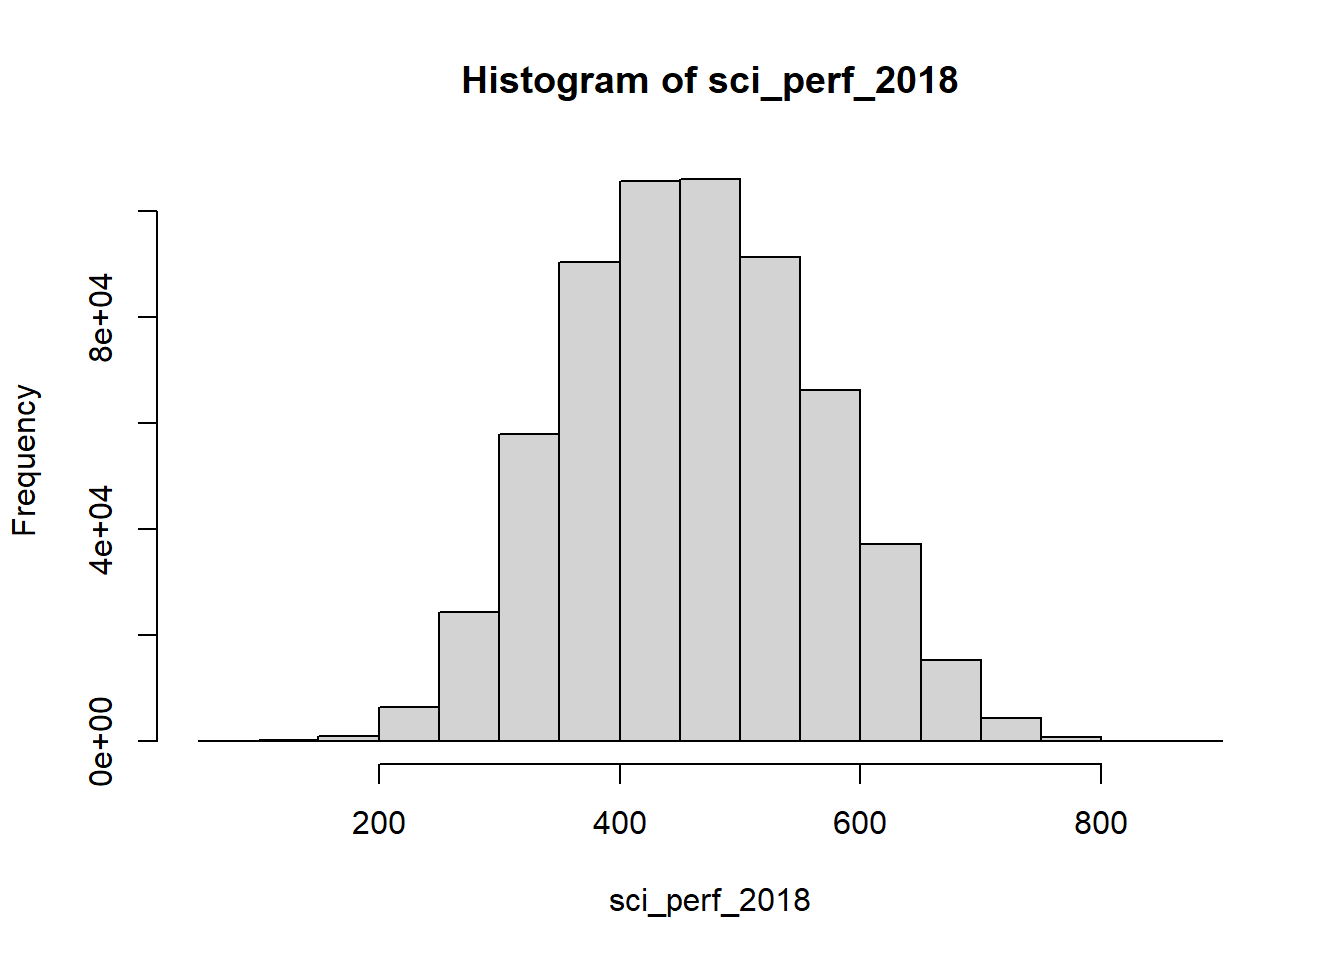
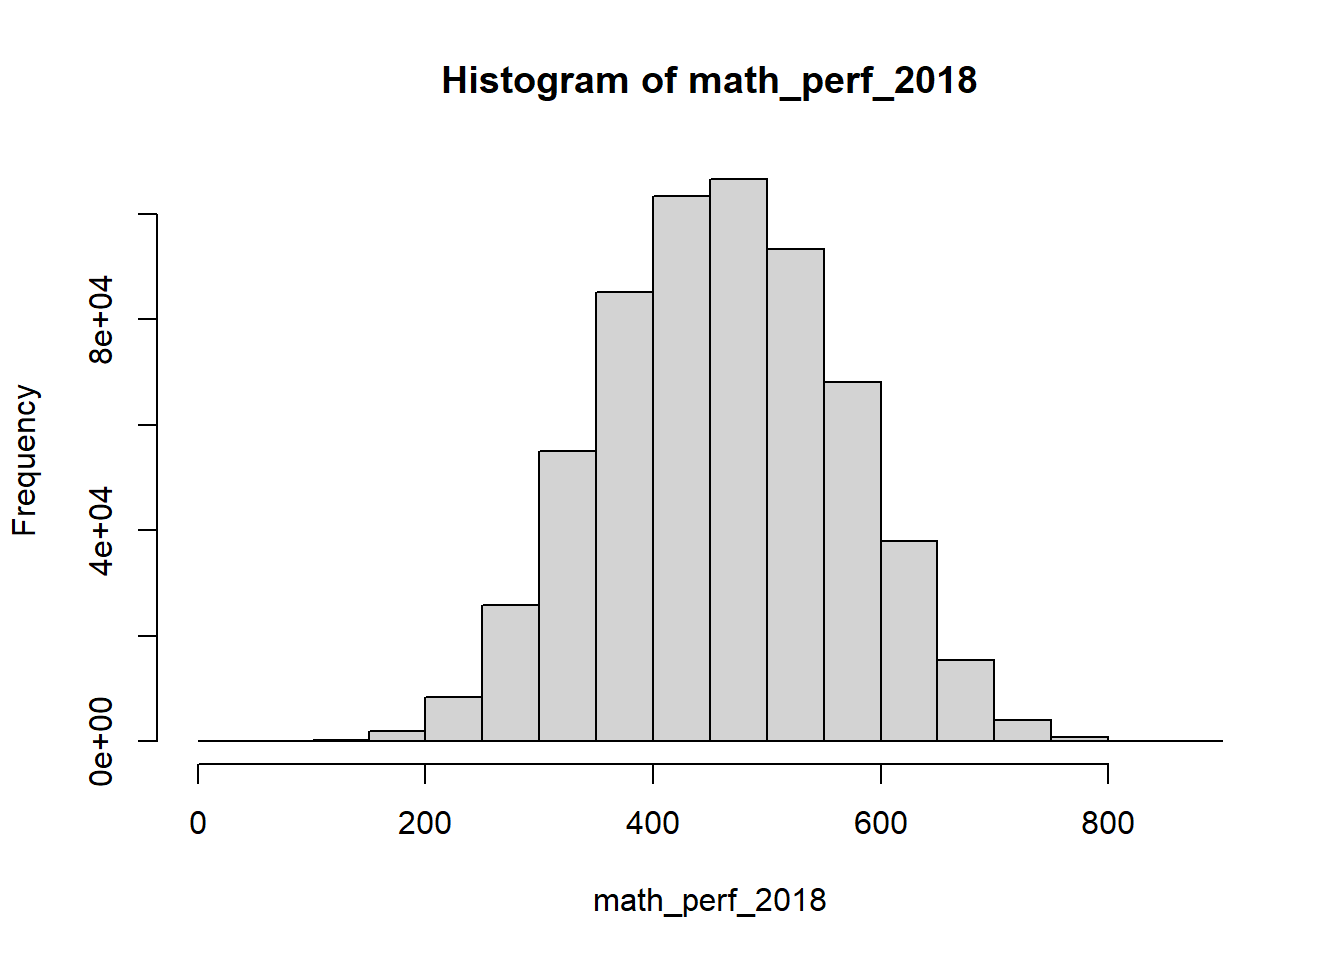
fixed some stuff b4 going to sleep

diff --git a/process.html b/process.html
@@ -351,17 +351,33 @@ dim(stud_perf_2018)</code></pre>
 <div id="visual-exploratory-analysis" class="section level1">
 <h1>Visual Exploratory Analysis</h1>
 <hr />
+<div id="grabbing-math-and-science-scores-and-assigning-them-in-variables-math_perf_2018-and-sci_perf_2018" class="section level3">
+<h3>Grabbing math and science scores and assigning them in variables math_perf_2018 and sci_perf_2018</h3>
+<pre class="r"><code>math_perf_2018 &lt;- stud_perf_2018$math
+sci_perf_2018 &lt;- stud_perf_2018$science</code></pre>
+</div>
 <div id="histogram-math" class="section level3">
 <h3>Histogram: Math</h3>
-<pre class="r"><code>math_perf_2018 &lt;- stud_perf_2018$math
-hist(math_perf_2018)</code></pre>
-<p><img src="process_files/figure-html/unnamed-chunk-8-1.png" width="672" /></p>
-</div>
-<div id="histogram-math-1" class="section level3">
-<h3>Histogram: Math</h3>
-<pre class="r"><code>sci_perf_2018 &lt;- stud_perf_2018$science
-hist(sci_perf_2018)</code></pre>
+<pre class="r"><code>hist(math_perf_2018)</code></pre>
 <p><img src="process_files/figure-html/unnamed-chunk-9-1.png" width="672" /></p>
+</div>
+<div id="histogram-science" class="section level3">
+<h3>Histogram: Science</h3>
+<pre class="r"><code>hist(sci_perf_2018)</code></pre>
+<p><img src="process_files/figure-html/unnamed-chunk-10-1.png" width="672" /></p>
+</div>
+<div id="boxplot-math" class="section level3">
+<h3>Boxplot: Math</h3>
+<pre class="r"><code>boxplot(math_perf_2018)</code></pre>
+<p><img src="process_files/figure-html/unnamed-chunk-11-1.png" width="672" /></p>
+</div>
+<div id="boxplot-science" class="section level3">
+<h3>Boxplot: Science</h3>
+<pre class="r"><code>boxplot(sci_perf_2018)</code></pre>
+<p><img src="process_files/figure-html/unnamed-chunk-12-1.png" width="672" /></p>
+<div id="note-somethings-wrong-with-some-of-the-data-will-fix." class="section level5">
+<h5>NOTE: somethings wrong with some of the data, will fix. 😅</h5>
+</div>
 </div>
 </div>
 

diff --git a/index.html b/index.html
@@ -3,6 +3,7 @@
 <html>
 
 <head>
+
 <meta charset="utf-8" />
 <meta name="generator" content="pandoc" />
 <meta http-equiv="X-UA-Compatible" content="IE=EDGE" />
@@ -241,7 +242,7 @@ $(document).ready(function () {
     <div id="navbar" class="navbar-collapse collapse">
       <ul class="nav navbar-nav">
         <li>
-  <a href="index.html">Home</a>
+  <a href="index.html">Result</a>
 </li>
 <li>
   <a href="about.html">About</a>
@@ -266,10 +267,7 @@ $(document).ready(function () {
 </div>
 
 
-<p>Quick brown fox jumps over the lazy dog</p>
-<pre class="r"><code>x &lt;- 10
-x</code></pre>
-<pre><code>## [1] 10</code></pre>
+<p>Result along with the interpretation will be posted here</p>
 
 
 

diff --git a/about.html b/about.html
@@ -242,7 +242,7 @@ $(document).ready(function () {
     <div id="navbar" class="navbar-collapse collapse">
       <ul class="nav navbar-nav">
         <li>
-  <a href="index.html">Home</a>
+  <a href="index.html">Result</a>
 </li>
 <li>
   <a href="about.html">About</a>
